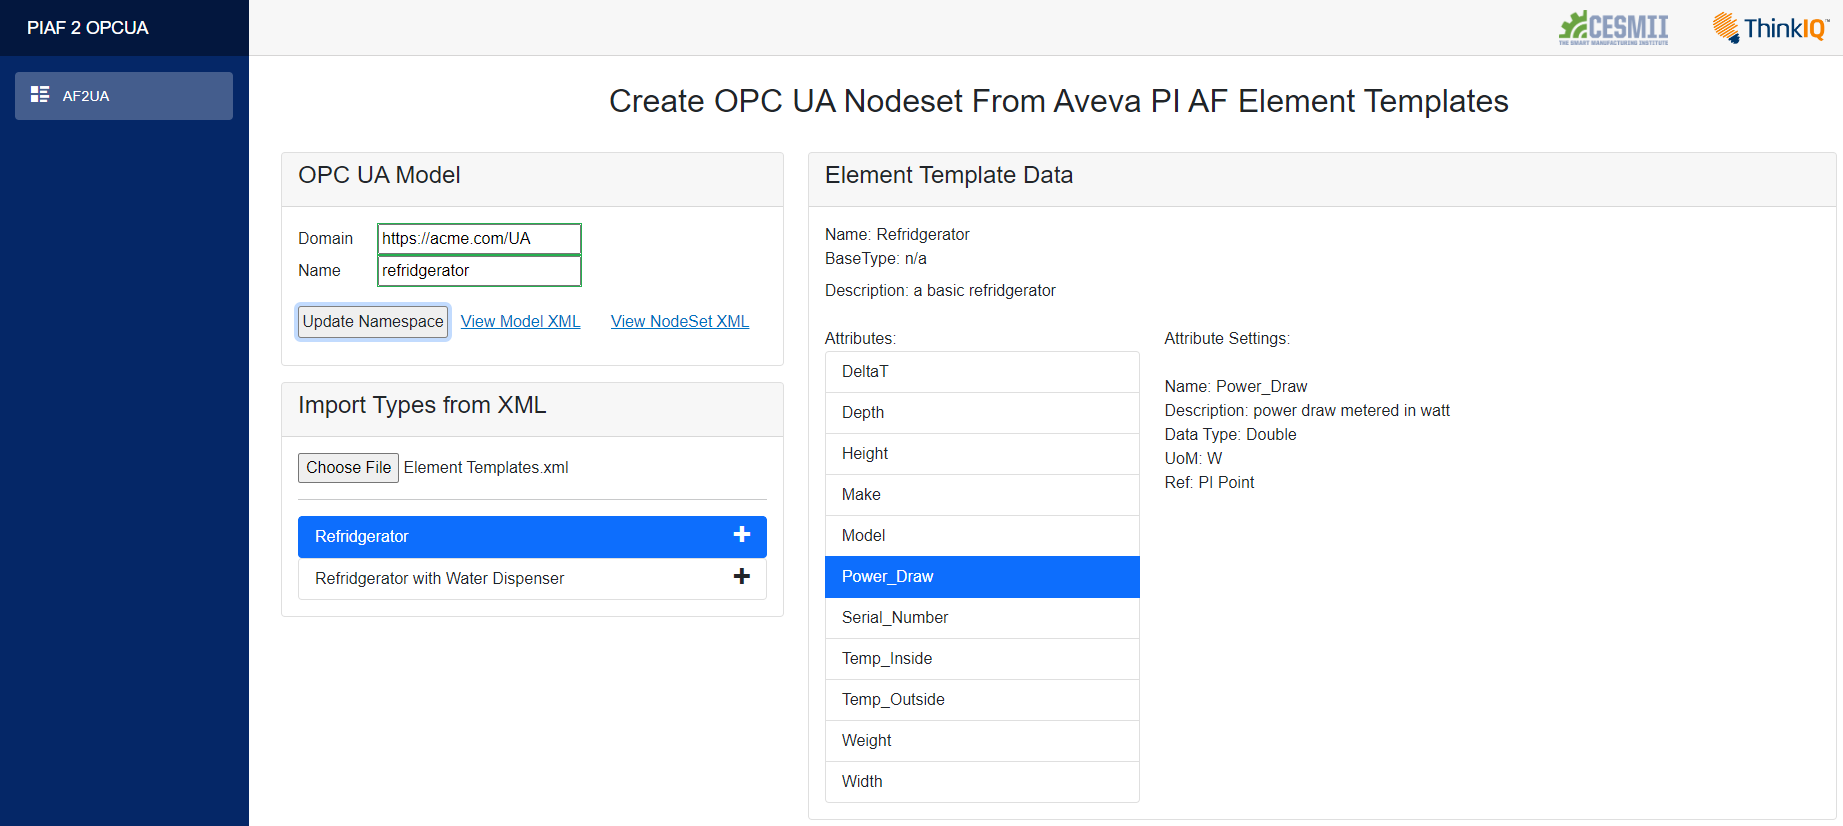
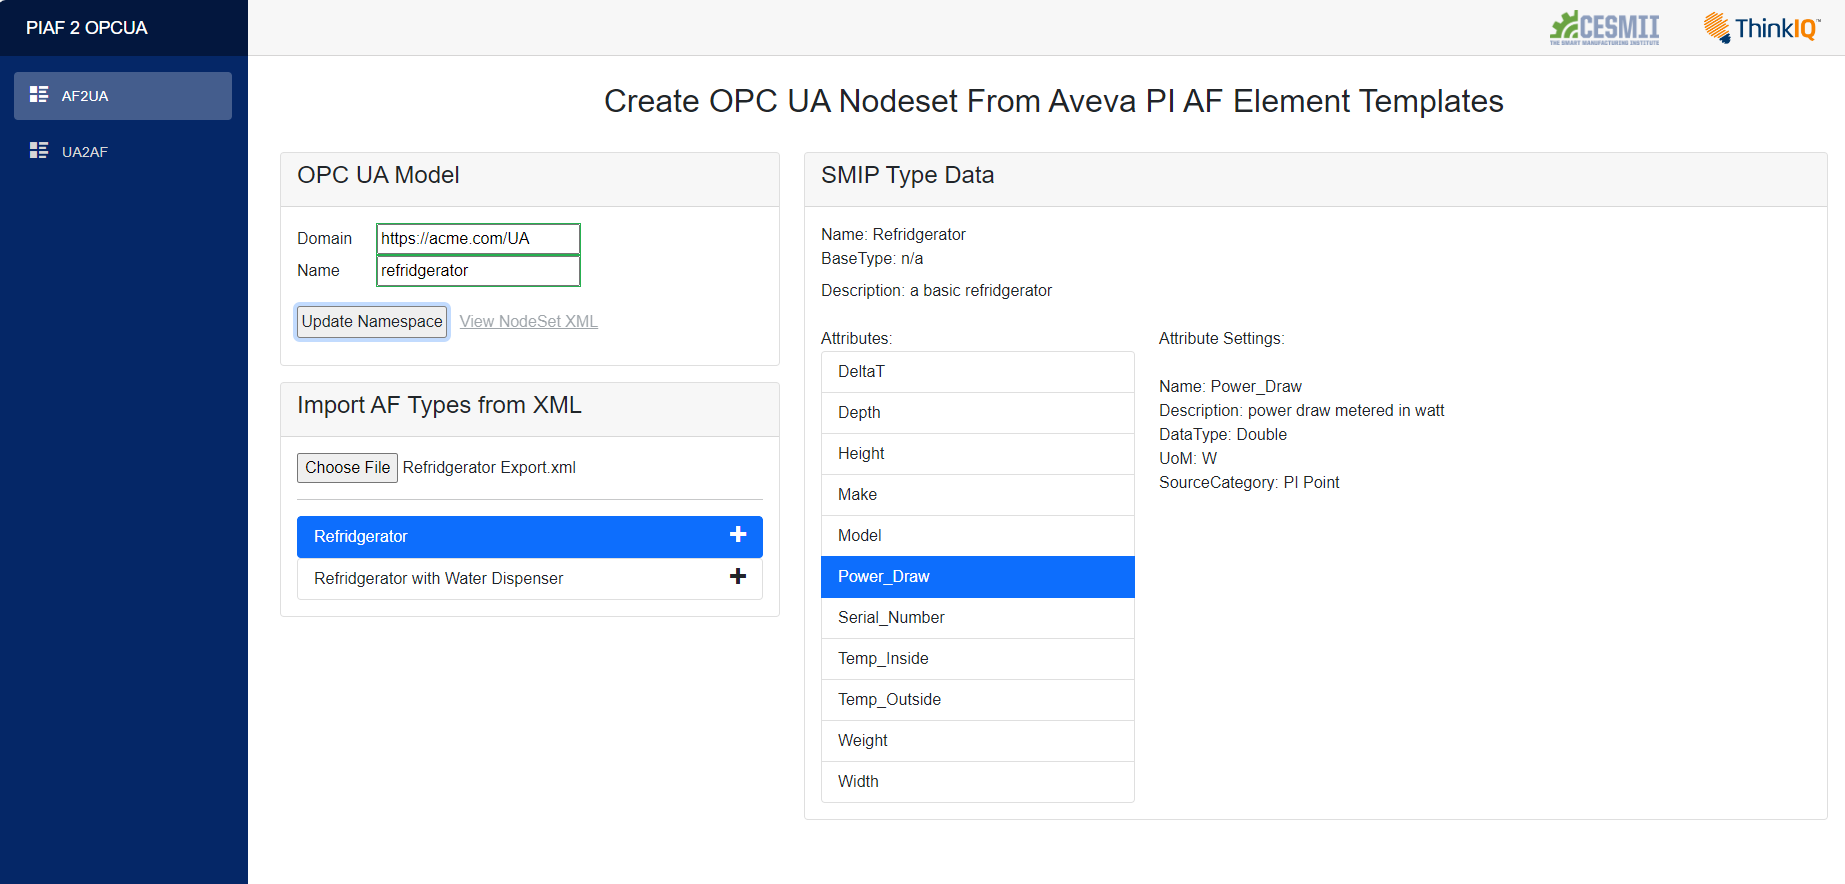
updates

diff --git a/README.md b/README.md
@@ -1,72 +1,70 @@
 # Creating OPC UA Nodesets From Aveva PI Asset Framework Element Templates
 
-This project leverages XML interoperability standards to allow creation of OPC UA Information Models and Nodesets from Asset Framework (AF) Element Templates from AVEVA's PI System Explorer (PI AF). 
+This project leverages XML interoperability standards to allow creation of OPC UA Information Models, i.e. Nodesets, from Asset Framework (AF) Element Templates from AVEVA's PI System Explorer (PI AF). 
 
 A program was created with a user interface to import and browse AF templates.
 
 ![Screenshot](./images/af2ua_screenshot.png)
-<p align = "center"><b>Fig.1 - Screenshot of program UI</b></p>
+<p align = "center"><b>Fig.1 - Screenshot of program UI: PI AF -> OPC UA</b></p>
 
-The first step is to create a new UA Model by entering a domain and name. The program automatically references the typical basic OPC UA namespaces. For instance, "ht<span>tps://</span>acme.com/UA" and "refridgerators" will result in the following OPC UA design model:
+The first step is to create a new UA Nodeset Model by entering a domain and name. The program automatically references the standard OPC UA namespace. 
 
-``` xml
-<?xml version="1.0" encoding="utf-16"?>
-<ModelDesign xmlns:xsi="http://www.w3.org/2001/XMLSchema-instance" xmlns:xsd="http://www.w3.org/2001/XMLSchema" xmlns:uax="http://opcfoundation.org/UA/2008/02/Types.xsd" xmlns:ua="http://opcfoundation.org/UA/" xmlns:refridgerator="https://acme.com/refridgerator/" TargetNamespace="https://acme.com/refridgerator/" TargetXmlNamespace="https://acme.com/refridgerator/" xmlns="http://opcfoundation.org/UA/ModelDesign.xsd">
-  <Namespaces>
-    <Namespace Name="OpcUa" Prefix="Opc.Ua" InternalPrefix="Opc.Ua.Server" XmlNamespace="http://opcfoundation.org/UA/2008/02/Types.xsd" XmlPrefix="OpcUa" Version="1.03" PublicationDate="2013-12-02T00:00:00Z">http://opcfoundation.org/UA/</Namespace>
-    <Namespace Name="refridgerator" Prefix="refridgerator" XmlNamespace="https://acme.com/refridgerator/Types.xsd" XmlPrefix="refridgerator">https://acme.com/refridgerator/</Namespace>
-  </Namespaces>
-</ModelDesign>
-```
+Once a nodeset model is created, element templates can be added by using the "+" icons next to the element template names. Element templates can be removed from the model design the same way. Note, that if a template is based on another base template, that base template needs to be added to the OPC UA nodeset model first. At any time, one can preview and save the generated Nodeset xml file. 
 
-Once an XML file with AF element templates is loaded, element templates can be added as BasicObjectTypes to the OPC UA design model by using the "+" icons next to the element template names. Element templates can be removed from the model design the same way. At any time, one can preview and save the generated ModelDesign.xml text. The Nodeset.xml can also be compiled. This action is performed on the server utilizing the OPC UA model compiler library.
-
-![Screenshot](./images/af2ua_model_preview_screenshot.png)
-<p align = "center"><b>Fig.2 - Preview and Save ModelDesign and Nodeset XML Files</b></p>
+![Screenshot](./images/af2ua_nodeset_preview_screenshot.png)
+<p align = "center"><b>Fig.2 - Preview and Save Nodeset XML File</b></p>
 
 ## Modeling Techniques Supported in PI AF 
 
-PI AF models include two basic types of objects: elements and attributes, both of which can be nested. Elements can be based on types, known as Element Templates, which are stored in a model library’s “Element Templates” section. An Element Template can be based on another other Element Template. This allows inheritance and chaining of dependencies.
+PI AF models include two basic types of objects: elements and attributes, both of which can be nested. Elements can be based on types, known as Element Templates, which are stored in a model library’s “Element Templates” section. An Element Template can be based on another Element Template. This allows inheritance and chaining of dependencies.
 
-Even though element instances can be nested, element templates cannot be nested. This means it is not possible to create composite types. However, within an element template, attribute templates can be nested. For the purpose of exporting AF element templates to OPC UA, one can either disregard nested attributes, or flatten them. Flattening nested attributes would preserve them for usage in the information model, but ultimately change the structure of the type, and possibly create issues with unique naming of sibling attributes.
+Even though element instances can be nested, element templates cannot be nested in PI AF. This means it is not possible to create composite types. However, within an element template, attribute templates can be nested. In this itteration of the translation tool, nested attributes are ignored.
 
 ## OPC UA Information Model Assumptions
 
-Objects can be added into a newly created namespace. At this time, appending or editing of existing Information Models or Nodesets is not supported. The workflow builds an OPC UA model first (ModelDesign.xsd), and then compiles a Nodeset off it using the OPC UA model compiler.
+Objects can be added into a newly created namespace. At this time, appending or editing of existing Information Models or Nodesets is not supported. The workflow builds an OPC UA nodeset model using the [Cesmii OPC UA Nodeset Utilities C# SDK](https://github.com/cesmii/CESMII-NodeSet-Utilities).
 
-These basic features of the rich set of OPC UA object types and namespaces are used to capture AF Element Templates:
+The following basic features of the OPC UA namespace are used to capture AF Element Templates:
 
 - Element Templates are modeled as BaseObjectType.
 - Element Templates that are based on another Element Template are modeled the same way. Thus, it is required to work from the bottom up, meaning that templates are only allowed to be added to an Information Model once the dependency exists.
 - Attribute Templates are modeled either as BaseDataVariableType or as PropertyType.
+- Static string attributes are modeled as Properties.
 - Time series attributes and numeric attributes are modeled as variables, so engineering units can be attached.
 - Engineering Units are captured in a property called "EngineeringUnits" based on the EUInformation type, which leverages the UNICE library of engineering units. If the DefaultUoM doesn't match, an exception message is shown.
 - Since AF does not allow nested element types, it is not possible to create complex types that encapsulate nameplate metadata such as the MachineIdentificationType.
-- The modeling rule of all properties and variables is set to its default state. This is mandatory. 
+- The modeling rule of all properties and variables is set to its default state.
 
-## Element Template Meta-Data
+## Validation of created OPC UA Information Models
 
-- Name - is captured.
-- Description - is captured.
-- Base Template - is captured.
-- Type - only Elements are considered.
-- Categories - omitted. This is AF specific.
-- Default Attribute - omitted. This is AF specific.
-- Naming Pattern - omitted. This does not exist in the SMIP.
+The OPC UA modeling tool UaModeler by Unified Automation was used to validate compatibility of created nodeset xml files.
 
-## Attribute Template Meta-Data
+![Screenshot](./images/20220715_01_fridge_import.png)
+<p align = "center"><b>Fig.3 - Validation of Nodeset XML File</b></p>
 
-- Name - is captured.
-- Description - is captured.
-- Properties - omitted. This is AF specific.
-- Categories - omitted. This is AF specific.
-- Default UoM - is captured and validated against OPC UA engineering units.
-- Default Value - is captured.
-- Display Digits - omitted. This is AF specific.
-- Data Reference - PI Point attributes will be marked for Historizing.
 
-### Value Type Mapping
 
-All data types supported by AF are available in OPC UA.
+# Creating Aveva PI Asset Framework Element Templates From OPC UA Nodesets
+
+The project utilizes the same techniques discribed above to parse OPC UA Information Models, i.e. Nodesets, and create from them Asset Framework (AF) Element Templates for AVEVA's PI System Explorer (PI AF). 
+
+![Screenshot](./images/ua2af_screenshot.png)
+<p align = "center"><b>Fig.4 - Screenshot of program UI: OPC UA -> PI AF</b></p>
+
+The first step is to load an existing OPC UA Nodeset xml file. The program resolves and loads other referenced namespaces if they are available at the web application's location. Nodeset XML files can be added as needed. 
+
+Once a nodeset model is loaded, object types can be added by using the "+" icons next to the object type names. Object types can be removed from the model the same way. Note, that if an object type is based on another object type, that base reference needs to be added to the translation model first. At any time, one can preview and save the generated PI AF xml file. 
+
+![Screenshot](./images/ua2af_xml_preview_screenshot.png)
+<p align = "center"><b>Fig.5 - Preview and Save Nodeset XML File</b></p>
+
+
+## Validation of created PI AF Library Files
+
+Aveva's PI System Explorer was used to validate compatibility of created library xml files.
+
+![Screenshot](./images/press_import.png)
+<p align = "center"><b>Fig.6 - Validation of PI AF Library XML File</b></p>
+
 
 
